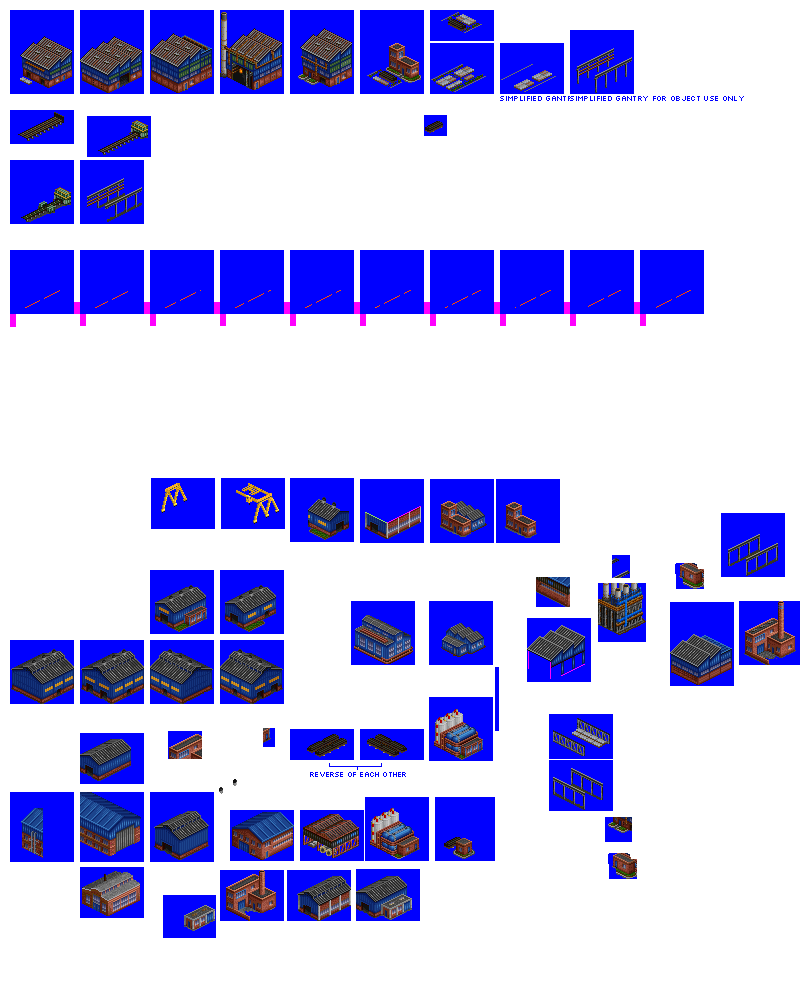
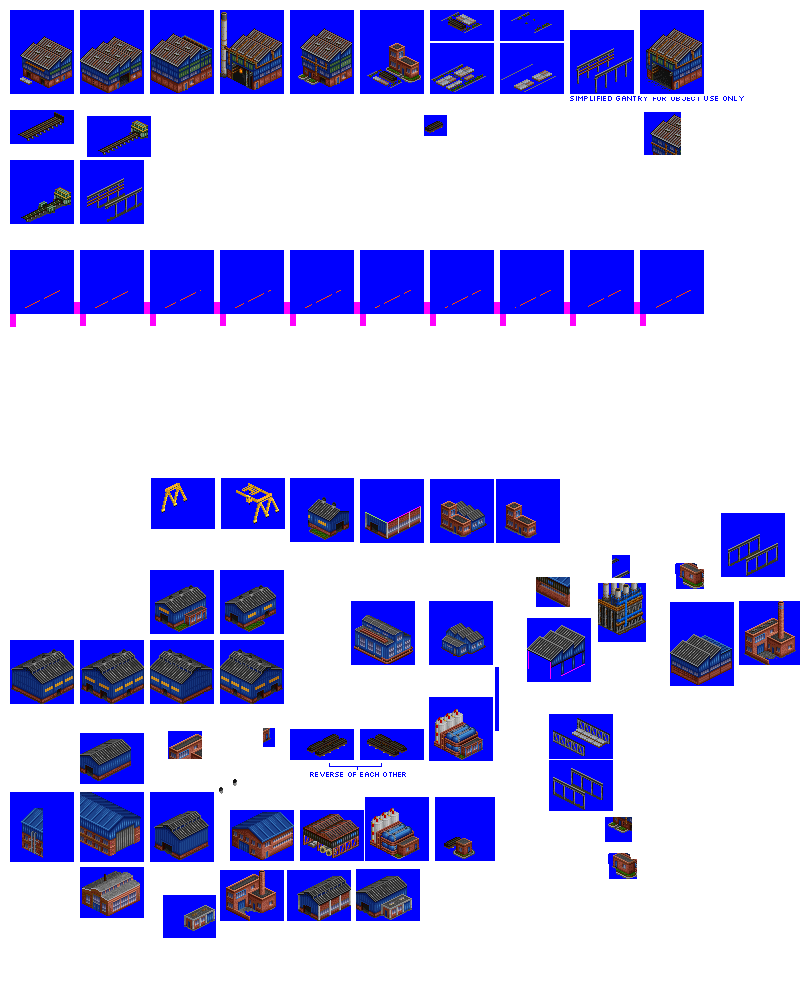
Change: extra objects for section and bar mill

Changed region(s): [[0.7812, 0.0, 0.9062, 0.155], [0.625, 0.0, 0.7188, 0.062]]

diff --git a/src/industries/section_and_bar_mill.py b/src/industries/section_and_bar_mill.py
@@ -89,6 +89,12 @@ spriteset_9 = industry.add_spriteset(
 spriteset_gantry_non_animated = industry.add_spriteset(
     sprites=[(570, 30, 64, 64, -31, -33)],
 )
+spriteset_shed_large_extra = industry.add_spriteset(
+    sprites=[(640, 10, 64, 84, -31, -53)],
+)
+spriteset_nearly_empty = industry.add_spriteset(
+    sprites=[(500, 10, 64, 31, -31, 0)],
+)
 spriteset_rolling_line_metal_animated = industry.add_spriteset(
     sprites=[
         (10, 250, 64, 64, -31, -33),
@@ -201,13 +207,22 @@ industry.add_spritelayout(
     add_to_object_num=8,
 )
 industry.add_spritelayout(
+    id="section_and_bar_mill_spritelayout_nearly_empty",
+    tile="section_and_bar_mill_tile_1",
+    ground_sprite=spriteset_ground,
+    ground_overlay=spriteset_ground_overlay,
+    building_sprites=[spriteset_nearly_empty],
+    fences=["nw", "ne"],
+    add_to_object_num=9,
+)
+industry.add_spritelayout(
     id="section_and_bar_mill_spritelayout_gantry_non_animated_1",
     tile="section_and_bar_mill_tile_1",
     ground_sprite=spriteset_ground,
     ground_overlay=spriteset_ground_overlay,
     building_sprites=[spriteset_9, spriteset_gantry_non_animated],
     fences=["nw", "ne", "se", "sw"],
-    add_to_object_num=9,
+    add_to_object_num=10,
 )
 industry.add_spritelayout(
     id="section_and_bar_mill_spritelayout_sw_ne_rolling_line",
@@ -222,6 +237,15 @@ industry.add_spritelayout(
     fences=[],
     # no animated object; fails on mismatched spritesets, TMWFTLB as of August 2023
     # add_to_object_num=10,
+)
+industry.add_spritelayout(
+    id="section_and_bar_mill_spritelayout_shed_large_extra",
+    tile="section_and_bar_mill_tile_1",
+    ground_sprite=spriteset_ground,
+    ground_overlay=spriteset_ground_overlay,
+    building_sprites=[spriteset_shed_large_extra],
+    fences=["nw", "ne", "se", "sw"],
+    add_to_object_num=11,
 )
 
 # this industry needs outpost layout as there are lots of cargos
